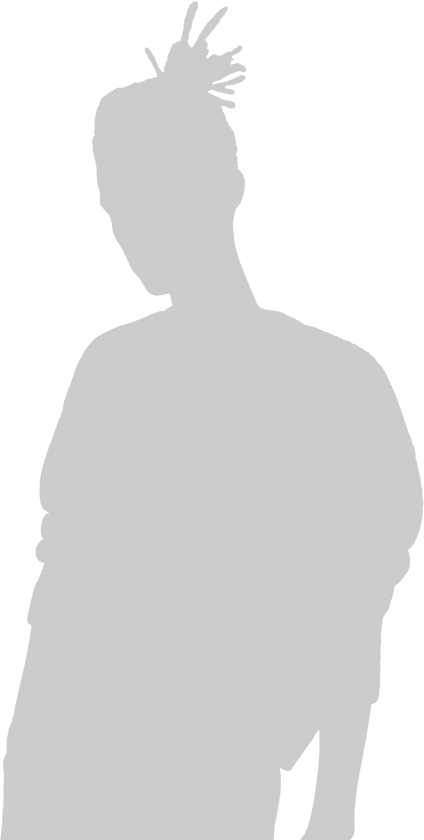
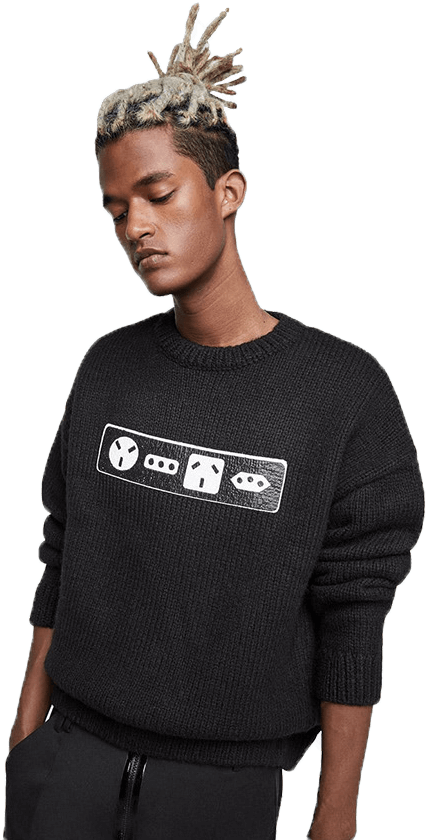
Update

diff --git a/index.html b/index.html
@@ -79,7 +79,7 @@
 				<a class="btn collection__btn" href="#">Shop now</a>
 			</div>
 			<div class="collection__image">
-				<a href="#"><img class="collection__img" src="http://placehold.it/570x700" alt=""></a>
+				<a href="#"><img class="collection__img" src="img/new_collection.jpg" alt=""></a>
 			</div>
 			<div class="collection__price">
 				<a class="collection__price_title" href="#">Jacket with side stripes</a>
@@ -100,7 +100,7 @@
 			<div class="block__title">On Sale</div>
 			<div class="sale__block">
 				<div class="sale__item">
-					<img class="sale__img" src="http://placehold.it/370x470" alt="">
+					<img class="sale__img" src="img/sale/1.jpg" alt="">
 					<div class="sale__item_content">
 						<div class="sale__content_block">
 							<div class="sale__suptitle">Man Outerwear</div>
@@ -112,7 +112,7 @@
 				</div>
 
 				<div class="sale__item">
-					<img class="sale__img" src="http://placehold.it/370x470" alt="">
+					<img class="sale__img" src="img/sale/2.jpg" alt="">
 					<div class="sale__item_content">
 						<div class="sale__content_block">
 							<div class="sale__suptitle">woMan T-SHIRT</div>
@@ -124,7 +124,7 @@
 				</div>
 
 				<div class="sale__item">
-					<img class="sale__img" src="http://placehold.it/370x470" alt="">
+					<img class="sale__img" src="img/sale/3.jpg" alt="">
 					<div class="sale__item_content">
 						<div class="sale__content_block">
 							<div class="sale__suptitle">JACKETS</div>
@@ -153,9 +153,9 @@
 				<a class="filter__link" href="#" data-filter="shoes">Shoes</a>
 			</div>
 			<div class="shop__blocks">
-				<div class="shop__item man">
+				<div class="shop__item woman">
 					<div class="shop__item_image">
-						<a href="#"><img class="shop__item_img" src="http://placehold.it/370x440" alt=""></a>
+						<a href="#"><img class="shop__item_img" src="img/products/1.jpg" alt=""></a>
 						<div class="shop__item_label">New</div>
 						<div class="shop__item_colors">
 							<div class="shop__color pink"></div>
@@ -167,9 +167,9 @@
 					<div class="shop__item_price">$45.00 - $75.00</div>
 				</div>
 
-				<div class="shop__item man">
+				<div class="shop__item woman">
 					<div class="shop__item_image">
-						<a href="#"><img class="shop__item_img" src="http://placehold.it/370x440" alt=""></a>
+						<a href="#"><img class="shop__item_img" src="img/products/2.jpg" alt=""></a>
 					</div>					
 					<a class="shop__item_title" href="#">Ribbed T-shirt with buttons</a>
 					<div class="shop__item_price type2">
@@ -178,9 +178,9 @@
 					</div>
 				</div>
 
-				<div class="shop__item woman">
+				<div class="shop__item man">
 					<div class="shop__item_image">
-						<a href="#"><img class="shop__item_img" src="http://placehold.it/370x440" alt=""></a>
+						<a href="#"><img class="shop__item_img" src="img/products/3.jpg" alt=""></a>
 						<div class="shop__item_label percent">-20%</div>
 					</div>					
 					<a class="shop__item_title" href="#">Jacket with side stripes</a>
@@ -190,9 +190,9 @@
 					</div>
 				</div>
 
-				<div class="shop__item woman">
+				<div class="shop__item shoes">
 					<div class="shop__item_image">
-						<a href="#"><img class="shop__item_img" src="http://placehold.it/370x440" alt=""></a>
+						<a href="#"><img class="shop__item_img" src="img/products/4.jpg" alt=""></a>
 						<div class="shop__item_colors">
 							<div class="shop__color pink"></div>
 							<div class="shop__color green"><i class="fas fa-check"></i></div>
@@ -207,15 +207,15 @@
 
 				<div class="shop__item bag">
 					<div class="shop__item_image">
-						<a href="#"><img class="shop__item_img" src="http://placehold.it/370x440" alt=""></a>
+						<a href="#"><img class="shop__item_img" src="img/products/5.jpg" alt=""></a>
 					</div>					
 					<a class="shop__item_title" href="#">Coral fabric belt bag</a>
 					<div class="shop__item_price">$60.00 - $90.00</div>
 				</div>
 
-				<div class="shop__item bag">
+				<div class="shop__item man">
 					<div class="shop__item_image">
-						<a href="#"><img class="shop__item_img" src="http://placehold.it/370x440" alt=""></a>
+						<a href="#"><img class="shop__item_img" src="img/products/6.jpg" alt=""></a>
 					</div>					
 					<a class="shop__item_title" href="#">Piggy skater slogan T-shirt</a>
 					<div class="shop__item_price type2">
@@ -226,7 +226,7 @@
 
 				<div class="shop__item shoes">
 					<div class="shop__item_image">
-						<a href="#"><img class="shop__item_img" src="http://placehold.it/370x440" alt=""></a>
+						<a href="#"><img class="shop__item_img" src="img/products/7.jpg" alt=""></a>
 						<div class="shop__item_label">New</div>
 					</div>					
 					<a class="shop__item_title" href="#">White platform boots</a>
@@ -236,9 +236,9 @@
 					</div>
 				</div>
 
-				<div class="shop__item shoes">
+				<div class="shop__item woman">
 					<div class="shop__item_image">
-						<a href="#"><img class="shop__item_img" src="http://placehold.it/370x440" alt=""></a>
+						<a href="#"><img class="shop__item_img" src="img/products/8.jpg" alt=""></a>
 					</div>					
 					<a class="shop__item_title" href="#">Sweater vest with sleeves</a>
 					<div class="shop__item_price type2">
@@ -247,17 +247,17 @@
 					</div>
 				</div>
 
-				<div class="shop__item bag">
+				<div class="shop__item man">
 					<div class="shop__item_image">
-						<a href="#"><img class="shop__item_img" src="http://placehold.it/370x440" alt=""></a>
+						<a href="#"><img class="shop__item_img" src="img/products/9.jpg" alt=""></a>
 					</div>					
 					<a class="shop__item_title" href="#">Slim carrot fit pants</a>
 					<div class="shop__item_price">$20.00 - $30.00</div>
 				</div>
 
-				<div class="shop__item man">
+				<div class="shop__item bag">
 					<div class="shop__item_image">
-						<a href="#"><img class="shop__item_img" src="http://placehold.it/370x440" alt=""></a>
+						<a href="#"><img class="shop__item_img" src="img/products/10.jpg" alt=""></a>
 						<div class="shop__item_label percent">-50%</div>
 					</div>					
 					<a class="shop__item_title" href="#">Grey backpack with flag</a>
@@ -269,7 +269,7 @@
 
 				<div class="shop__item woman">
 					<div class="shop__item_image">
-						<a href="#"><img class="shop__item_img" src="http://placehold.it/370x440" alt=""></a>
+						<a href="#"><img class="shop__item_img" src="img/products/11.jpg" alt=""></a>
 					</div>					
 					<a class="shop__item_title" href="#">Neon sweatshirt</a>
 					<div class="shop__item_price type2">
@@ -278,9 +278,9 @@
 					</div>
 				</div>
 
-				<div class="shop__item shoes">
+				<div class="shop__item man">
 					<div class="shop__item_image">
-						<a href="#"><img class="shop__item_img" src="http://placehold.it/370x440" alt=""></a>
+						<a href="#"><img class="shop__item_img" src="img/products/12.jpg" alt=""></a>
 						<div class="shop__item_colors">
 							<div class="shop__color pink"></div>
 							<div class="shop__color green"></div>
@@ -306,7 +306,7 @@
 			<div class="block__title">Latest News</div>
 			<div class="blog__content">
 				<div class="blog__item">
-					<a class="blog__image" href="#"><img class="blog__img" src="http://placehold.it/370x240" alt=""></a>
+					<a class="blog__image" href="#"><img class="blog__img" src="img/news/1.jpg" alt=""></a>
 					<div class="blog__item_suptitle">
 						<div class="suptitle_theme">Fashion</div>
 						<div class="suptitle_author">Jame Simon</div>
@@ -318,7 +318,7 @@
 				</div>
 
 				<div class="blog__item">
-					<a class="blog__image" href="#"><img class="blog__img" src="http://placehold.it/370x240" alt=""></a>
+					<a class="blog__image" href="#"><img class="blog__img" src="img/news/2.jpg" alt=""></a>
 					<div class="blog__item_suptitle">
 						<div class="suptitle_theme">Fashion</div>
 						<div class="suptitle_author">Jame Simon</div>
@@ -330,7 +330,7 @@
 				</div>
 
 				<div class="blog__item">
-					<a class="blog__image" href="#"><img class="blog__img" src="http://placehold.it/370x240" alt=""></a>
+					<a class="blog__image" href="#"><img class="blog__img" src="img/news/3.jpg" alt=""></a>
 					<div class="blog__item_suptitle">
 						<div class="suptitle_theme">Fashion</div>
 						<div class="suptitle_author">Jame Simon</div>
